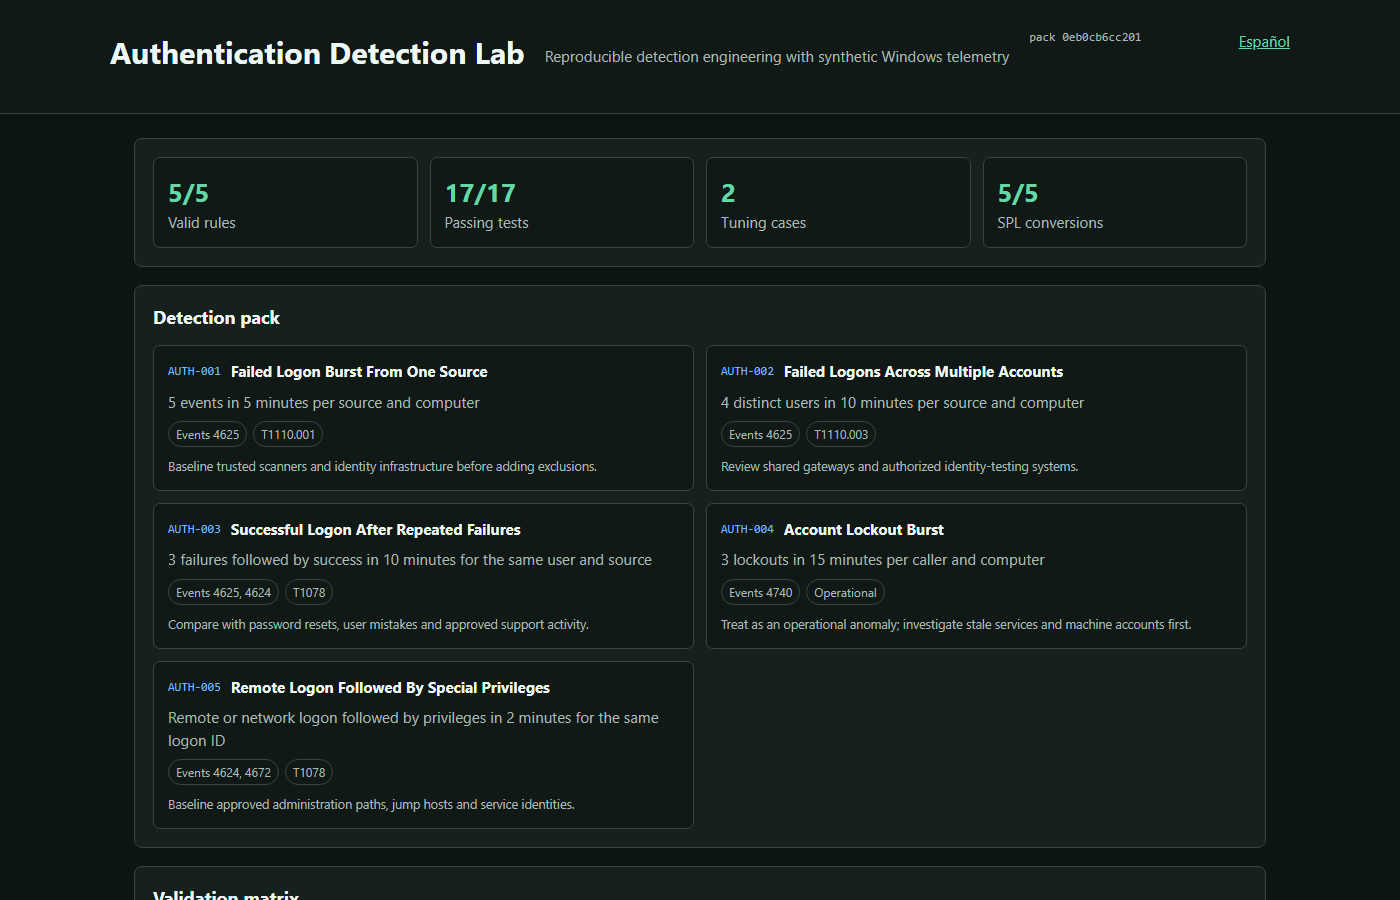
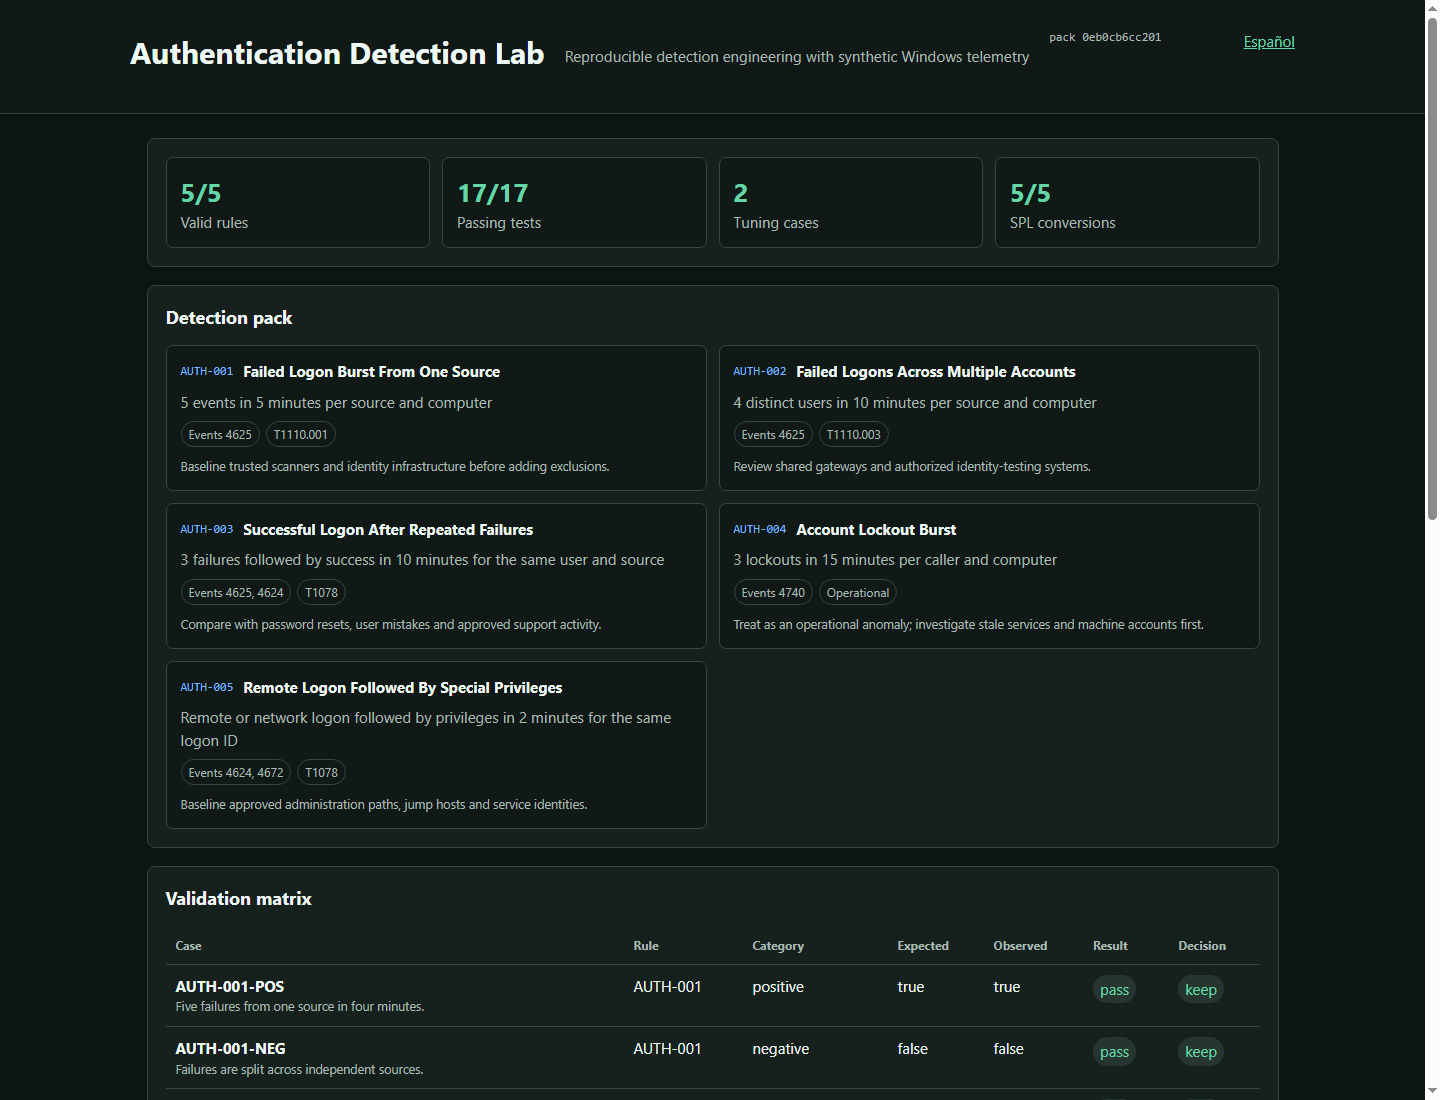
Actualización de la presentación del laboratorio

diff --git a/reports/latest/report.en.html b/reports/latest/report.en.html
@@ -245,7 +245,7 @@
           <td><span class="status tune">tune</span></td>
         </tr>
         </tbody></table></div></section>
-    <section><h2>Scope and limitations</h2><p class="notice">The runner uses synthetic events and does not replace a SIEM. 0 correlations use reviewed compatibility SPL.</p></section>
+    <section><h2>Scope and limitations</h2><p class="notice">The runner uses synthetic events and does not replace a SIEM. 2 correlations use reviewed compatibility SPL.</p></section>
   </main>
 </body>
 </html>

diff --git a/reports/latest/report.es.html b/reports/latest/report.es.html
@@ -245,7 +245,7 @@
           <td><span class="status tune">tune</span></td>
         </tr>
         </tbody></table></div></section>
-    <section><h2>Alcance y limitaciones</h2><p class="notice">El runner usa eventos sintéticos y no sustituye a un SIEM. 0 correlaciones usan SPL de compatibilidad revisado.</p></section>
+    <section><h2>Alcance y limitaciones</h2><p class="notice">El runner usa eventos sintéticos y no sustituye a un SIEM. 2 correlaciones usan SPL de compatibilidad revisado.</p></section>
   </main>
 </body>
 </html>

diff --git a/tests/test_reports.py b/tests/test_reports.py
@@ -1,6 +1,7 @@
 import csv
 import unittest
 
+from authlab.convert import convert_rules
 from authlab.paths import REPORTS_DIR
 from authlab.report import build_reports
 from authlab.validation import run_validation
@@ -10,17 +11,7 @@ class ReportTests(unittest.TestCase):
     @classmethod
     def setUpClass(cls) -> None:
         run_validation()
-        # Conversion is exercised by the integration command and CI. A minimal
-        # deterministic conversion summary is enough to unit-test rendering.
-        from authlab.paths import ARTIFACTS_DIR
-
-        (ARTIFACTS_DIR / "conversion.json").write_text(
-            "[" + ",".join(
-                f'{{"rule":"auth_{index:03d}.yml","backend":"splunk","ok":true,"output":"artifacts/splunk/auth_{index:03d}.spl","message":"converted"}}'
-                for index in range(1, 6)
-            ) + "]\n",
-            encoding="utf-8",
-        )
+        convert_rules("splunk")
         build_reports()
 
     def test_bilingual_reports_are_generated(self) -> None:
@@ -39,7 +30,13 @@ class ReportTests(unittest.TestCase):
         self.assertNotIn("<script", report.lower())
         self.assertNotIn("https://", report.lower())
 
+    def test_report_shows_reviewed_compatibility_queries(self) -> None:
+        report = (REPORTS_DIR / "report.en.md").read_text(encoding="utf-8")
+        self.assertIn("auth_003_success_after_failures.yml**: compatibility", report)
+        self.assertIn("auth_005_privileged_remote_logon.yml**: compatibility", report)
+        html = (REPORTS_DIR / "report.en.html").read_text(encoding="utf-8")
+        self.assertIn("2 correlations use reviewed compatibility SPL", html)
+
 
 if __name__ == "__main__":
     unittest.main()
-

diff --git a/tests/test_public_docs.py b/tests/test_public_docs.py
@@ -80,6 +80,25 @@ class PublicDocumentationTests(unittest.TestCase):
         self.assertIn("Presentación", text)
         self.assertIn("docs/PORTFOLIO_PRESENTATION.md", text)
 
+    def test_readmes_explain_how_to_review_the_project(self) -> None:
+        english = (ROOT / "README.md").read_text(encoding="utf-8")
+        spanish = (ROOT / "README.es.md").read_text(encoding="utf-8")
+
+        self.assertIn("How to review this project", english)
+        self.assertIn("Cómo revisar este proyecto", spanish)
+        for expected in ("rules/manifest.json", "tests/fixtures/scenarios.json", "authlab all"):
+            with self.subTest(expected=expected):
+                self.assertIn(expected, english)
+                self.assertIn(expected, spanish)
+
+    def test_validation_doc_lists_splunk_outputs(self) -> None:
+        text = (ROOT / "docs" / "VALIDATION.md").read_text(encoding="utf-8")
+
+        self.assertIn("Splunk conversion outputs", text)
+        self.assertIn("auth_003_success_after_failures.spl", text)
+        self.assertIn("auth_005_privileged_remote_logon.spl", text)
+        self.assertIn("reviewed compatibility", text)
+
 
 if __name__ == "__main__":
     unittest.main()

diff --git a/docs/VALIDATION.md b/docs/VALIDATION.md
@@ -28,3 +28,20 @@ natively but does not currently convert `temporal_ordered`. For AUTH-003 and
 AUTH-005 the lab emits separately marked, reviewed compatibility SPL based on
 the same fields and time windows. These queries are evidence for review, not a
 claim of production deployment.
+
+## Splunk conversion outputs
+
+Running `uv run authlab convert --backend splunk` writes reviewable queries to
+`artifacts/splunk/`:
+
+| Rule | Output | Mode |
+|---|---|---|
+| AUTH-001 | `auth_001_failed_logon_burst.spl` | native |
+| AUTH-002 | `auth_002_multiple_accounts.spl` | native |
+| AUTH-003 | `auth_003_success_after_failures.spl` | reviewed compatibility |
+| AUTH-004 | `auth_004_account_lockout_burst.spl` | native |
+| AUTH-005 | `auth_005_privileged_remote_logon.spl` | reviewed compatibility |
+
+The compatibility queries exist because the installed pySigma Splunk backend
+does not natively emit `temporal_ordered` correlations. They are intentionally
+visible in the report so an analyst can review them before any SIEM test.

diff --git a/README.es.md b/README.es.md
@@ -33,6 +33,17 @@ El resultado visual se genera en `reports/latest/report.es.html`. Las consultas
 Splunk y evidencias de ejecución se guardan en `artifacts/`, fuera del control de
 versiones.
 
+## Cómo revisar este proyecto
+
+1. Empieza por `rules/manifest.json` y las cinco reglas Sigma de `rules/`.
+2. Revisa `tests/fixtures/scenarios.json` para ver casos positivos, negativos,
+   de umbral y de tuning.
+3. Ejecuta `uv run authlab all` para regenerar validación, conversión SPL e
+   informes.
+4. Abre `reports/latest/report.es.html` para ver la matriz de validación.
+5. Lee `docs/TUNING_GUIDE.md` para comprobar cómo se tratan falsos positivos
+   sin ocultar el comportamiento detectado.
+
 ## Comandos
 
 ```text

diff --git a/README.md b/README.md
@@ -45,6 +45,17 @@ Open `reports/latest/report.en.html` after the run. Generated Splunk queries and
 machine-readable evidence are written to `artifacts/`, which is intentionally
 ignored by Git.
 
+## How to review this project
+
+1. Start with `rules/manifest.json` and the five Sigma files in `rules/`.
+2. Inspect `tests/fixtures/scenarios.json` to see the positive, negative,
+   boundary and tuning cases.
+3. Run `uv run authlab all` to rebuild validation, SPL conversion and reports.
+4. Open `reports/latest/report.en.html` for the portfolio-ready validation
+   matrix.
+5. Read `docs/TUNING_GUIDE.md` to see how false positives are handled without
+   hiding the detection behavior.
+
 ## Commands
 
 ```text

diff --git a/reports/latest/report.en.md b/reports/latest/report.en.md
@@ -45,11 +45,11 @@ Defensive lab using synthetic events. This report does not claim production perf
 
 ## Backend compatibility
 
-- **auth_001.yml**: native
-- **auth_002.yml**: native
-- **auth_003.yml**: native
-- **auth_004.yml**: native
-- **auth_005.yml**: native
+- **auth_001_failed_logon_burst.yml**: native
+- **auth_002_multiple_accounts.yml**: native
+- **auth_003_success_after_failures.yml**: compatibility
+- **auth_004_account_lockout_burst.yml**: native
+- **auth_005_privileged_remote_logon.yml**: compatibility
 
 ## Tuning notes
 

diff --git a/reports/latest/report.es.md b/reports/latest/report.es.md
@@ -45,11 +45,11 @@ Laboratorio defensivo con eventos sintéticos. Este informe no acredita rendimie
 
 ## Compatibilidad del backend
 
-- **auth_001.yml**: native
-- **auth_002.yml**: native
-- **auth_003.yml**: native
-- **auth_004.yml**: native
-- **auth_005.yml**: native
+- **auth_001_failed_logon_burst.yml**: native
+- **auth_002_multiple_accounts.yml**: native
+- **auth_003_success_after_failures.yml**: compatibility
+- **auth_004_account_lockout_burst.yml**: native
+- **auth_005_privileged_remote_logon.yml**: compatibility
 
 ## Notas de ajuste
 